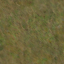
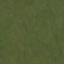
Tighten Rubberduck grassland tile cohesion

diff --git a/tools/build_overworld_terrain_tiles.py b/tools/build_overworld_terrain_tiles.py
@@ -53,6 +53,16 @@ RUBBERDUCK_EDGE_SOURCES = {
     "forest": ("forest_ground_128x64.png", 1),
 }
 
+GRASSLAND_COHESION_TARGETS = {
+    "grass_open": (82, 94, 52),
+    "grass_field": (82, 95, 51),
+    "grass_worn": (83, 93, 52),
+    "plains_open": (84, 95, 53),
+    "plains_dry": (85, 95, 54),
+    "plains_worn": (84, 94, 53),
+}
+GRASSLAND_COHESION_CONTRAST = 0.42
+
 _rubberduck_sheet_cache: dict[str, Image.Image] = {}
 _rubberduck_cell_cache: dict[tuple[str, int], Image.Image] = {}
 
@@ -235,6 +245,33 @@ def palette_wash(image: Image.Image, color: tuple[int, int, int], strength: floa
     return Image.blend(image.convert("RGBA"), wash, max(0.0, min(1.0, strength)))
 
 
+def rgb_mean(image: Image.Image) -> tuple[float, float, float]:
+    pixels = list(image.convert("RGBA").getdata())
+    count = max(1, len(pixels))
+    red = sum(pixel[0] for pixel in pixels) / count
+    green = sum(pixel[1] for pixel in pixels) / count
+    blue = sum(pixel[2] for pixel in pixels) / count
+    return red, green, blue
+
+
+def harmonize_grassland_surface(image: Image.Image, spec: BaseTileSpec) -> Image.Image:
+    target = GRASSLAND_COHESION_TARGETS.get(spec.output)
+    if target is None:
+        return image
+    mean = rgb_mean(image)
+    pixels: list[tuple[int, int, int, int]] = []
+    for red, green, blue, alpha in image.convert("RGBA").getdata():
+        pixels.append((
+            clamp_channel(int(round(target[0] + ((red - mean[0]) * GRASSLAND_COHESION_CONTRAST)))),
+            clamp_channel(int(round(target[1] + ((green - mean[1]) * GRASSLAND_COHESION_CONTRAST)))),
+            clamp_channel(int(round(target[2] + ((blue - mean[2]) * GRASSLAND_COHESION_CONTRAST)))),
+            alpha,
+        ))
+    output = Image.new("RGBA", image.size)
+    output.putdata(pixels)
+    return output.filter(ImageFilter.GaussianBlur(radius=0.10)).filter(ImageFilter.UnsharpMask(radius=0.22, percent=8, threshold=5))
+
+
 def rubberduck_base_tile(spec: BaseTileSpec) -> Image.Image | None:
     source = RUBBERDUCK_BASE_SOURCES.get(spec.output)
     if source is None:
@@ -247,6 +284,8 @@ def rubberduck_base_tile(spec: BaseTileSpec) -> Image.Image | None:
     palette = mix(hex_rgb(spec.base), hex_rgb(spec.secondary), 0.36)
     wash_strength = 0.08 if spec.terrain_family == "grasslands" else 0.12
     image = palette_wash(image, palette, wash_strength)
+    if spec.terrain_family == "grasslands":
+        image = harmonize_grassland_surface(image, spec)
     if spec.terrain_family == "forest":
         shadow = Image.new("RGBA", (SIZE, SIZE), (0, 0, 0, 0))
         draw = ImageDraw.Draw(shadow, "RGBA")

diff --git a/PLAN.md b/PLAN.md
@@ -26,6 +26,34 @@ The planning story now changes from "many completed release-facing slices" to "p
 - Every slice must be judged by live-client player flow, not just by data existence, rule coverage, or smoke-test routing.
 - River Pass has now cleared the manual play gate per AcOrP's 2026-04-18 report; expand breadth in a controlled alpha-facing way instead of jumping straight to broad campaign sprawl.
 
+## Current Implementation Slice: Rubberduck Grassland Cohesion Correction
+Status: completed on 2026-04-21 as a narrow corrective terrain-art pass.
+
+Purpose:
+- Correct AcOrP's live-view finding that same-family grassland areas read as visible square color patches after the Rubberduck feel test.
+- Keep the Rubberduck terrain direction under evaluation, but make grass/plains base variants read as one coherent grasslands family.
+- Preserve the existing 64x64 runtime tile-bank contract, renderer behavior, 3x3 patch-cohesive variant selection, projection/layout, gameplay/pathing, save format, map editor schema, road topology, object/town art, and town occupancy/pathing.
+
+Scope:
+- Tighten the generated Rubberduck-adapted grass/plains base tile palette/value range so variant patches stop reading like different terrain classes.
+- Leave forest on the Rubberduck feel-test path if it continues to read well.
+- Leave mire/swamp, hills/ridge/highland, roads, terrain grammar schema, gameplay, pathing, save/load, editor data, object rendering, and town occupancy/pathing unchanged.
+
+Implemented:
+- `tools/build_overworld_terrain_tiles.py` now normalizes only Rubberduck-derived grass/plains base variants to a tight shared grasslands palette/value range while preserving subdued source texture.
+- Rebuilt only the six grass/plains runtime base PNGs; forest, mire/swamp, hills/ridge/highland, edge overlays, roads, renderer behavior, terrain grammar schema, map data, gameplay/pathing, save data, editor schema, object/town rendering, and town occupancy/pathing were left unchanged.
+- The six grass/plains variants now sit in a narrow luma band around 88-90, so existing patch-cohesive selection no longer presents loud square color blocks across same-family grassland.
+
+Validation:
+- `python3 tests/validate_repo.py`
+- `godot4 --headless --path . res://tests/map_editor_smoke.tscn`
+- `godot4 --headless --path . res://tests/overworld_visual_smoke.tscn`
+- `godot4 --headless --path . res://tests/ninefold_scenario_smoke.tscn`
+- `git diff --check`
+
+Limits:
+- This is a visual cohesion correction only, not a rollback of the Rubberduck feel test, a terrain schema change, a renderer/projection change, a movement/pathing change, a save-format change, an object/town art pass, or a town 3x2 occupancy/pathing slice.
+
 ## Current Implementation Slice: Rubberduck Terrain Surface Feel Test
 Status: completed on 2026-04-21 as a narrow overworld terrain-art feel test.
 
